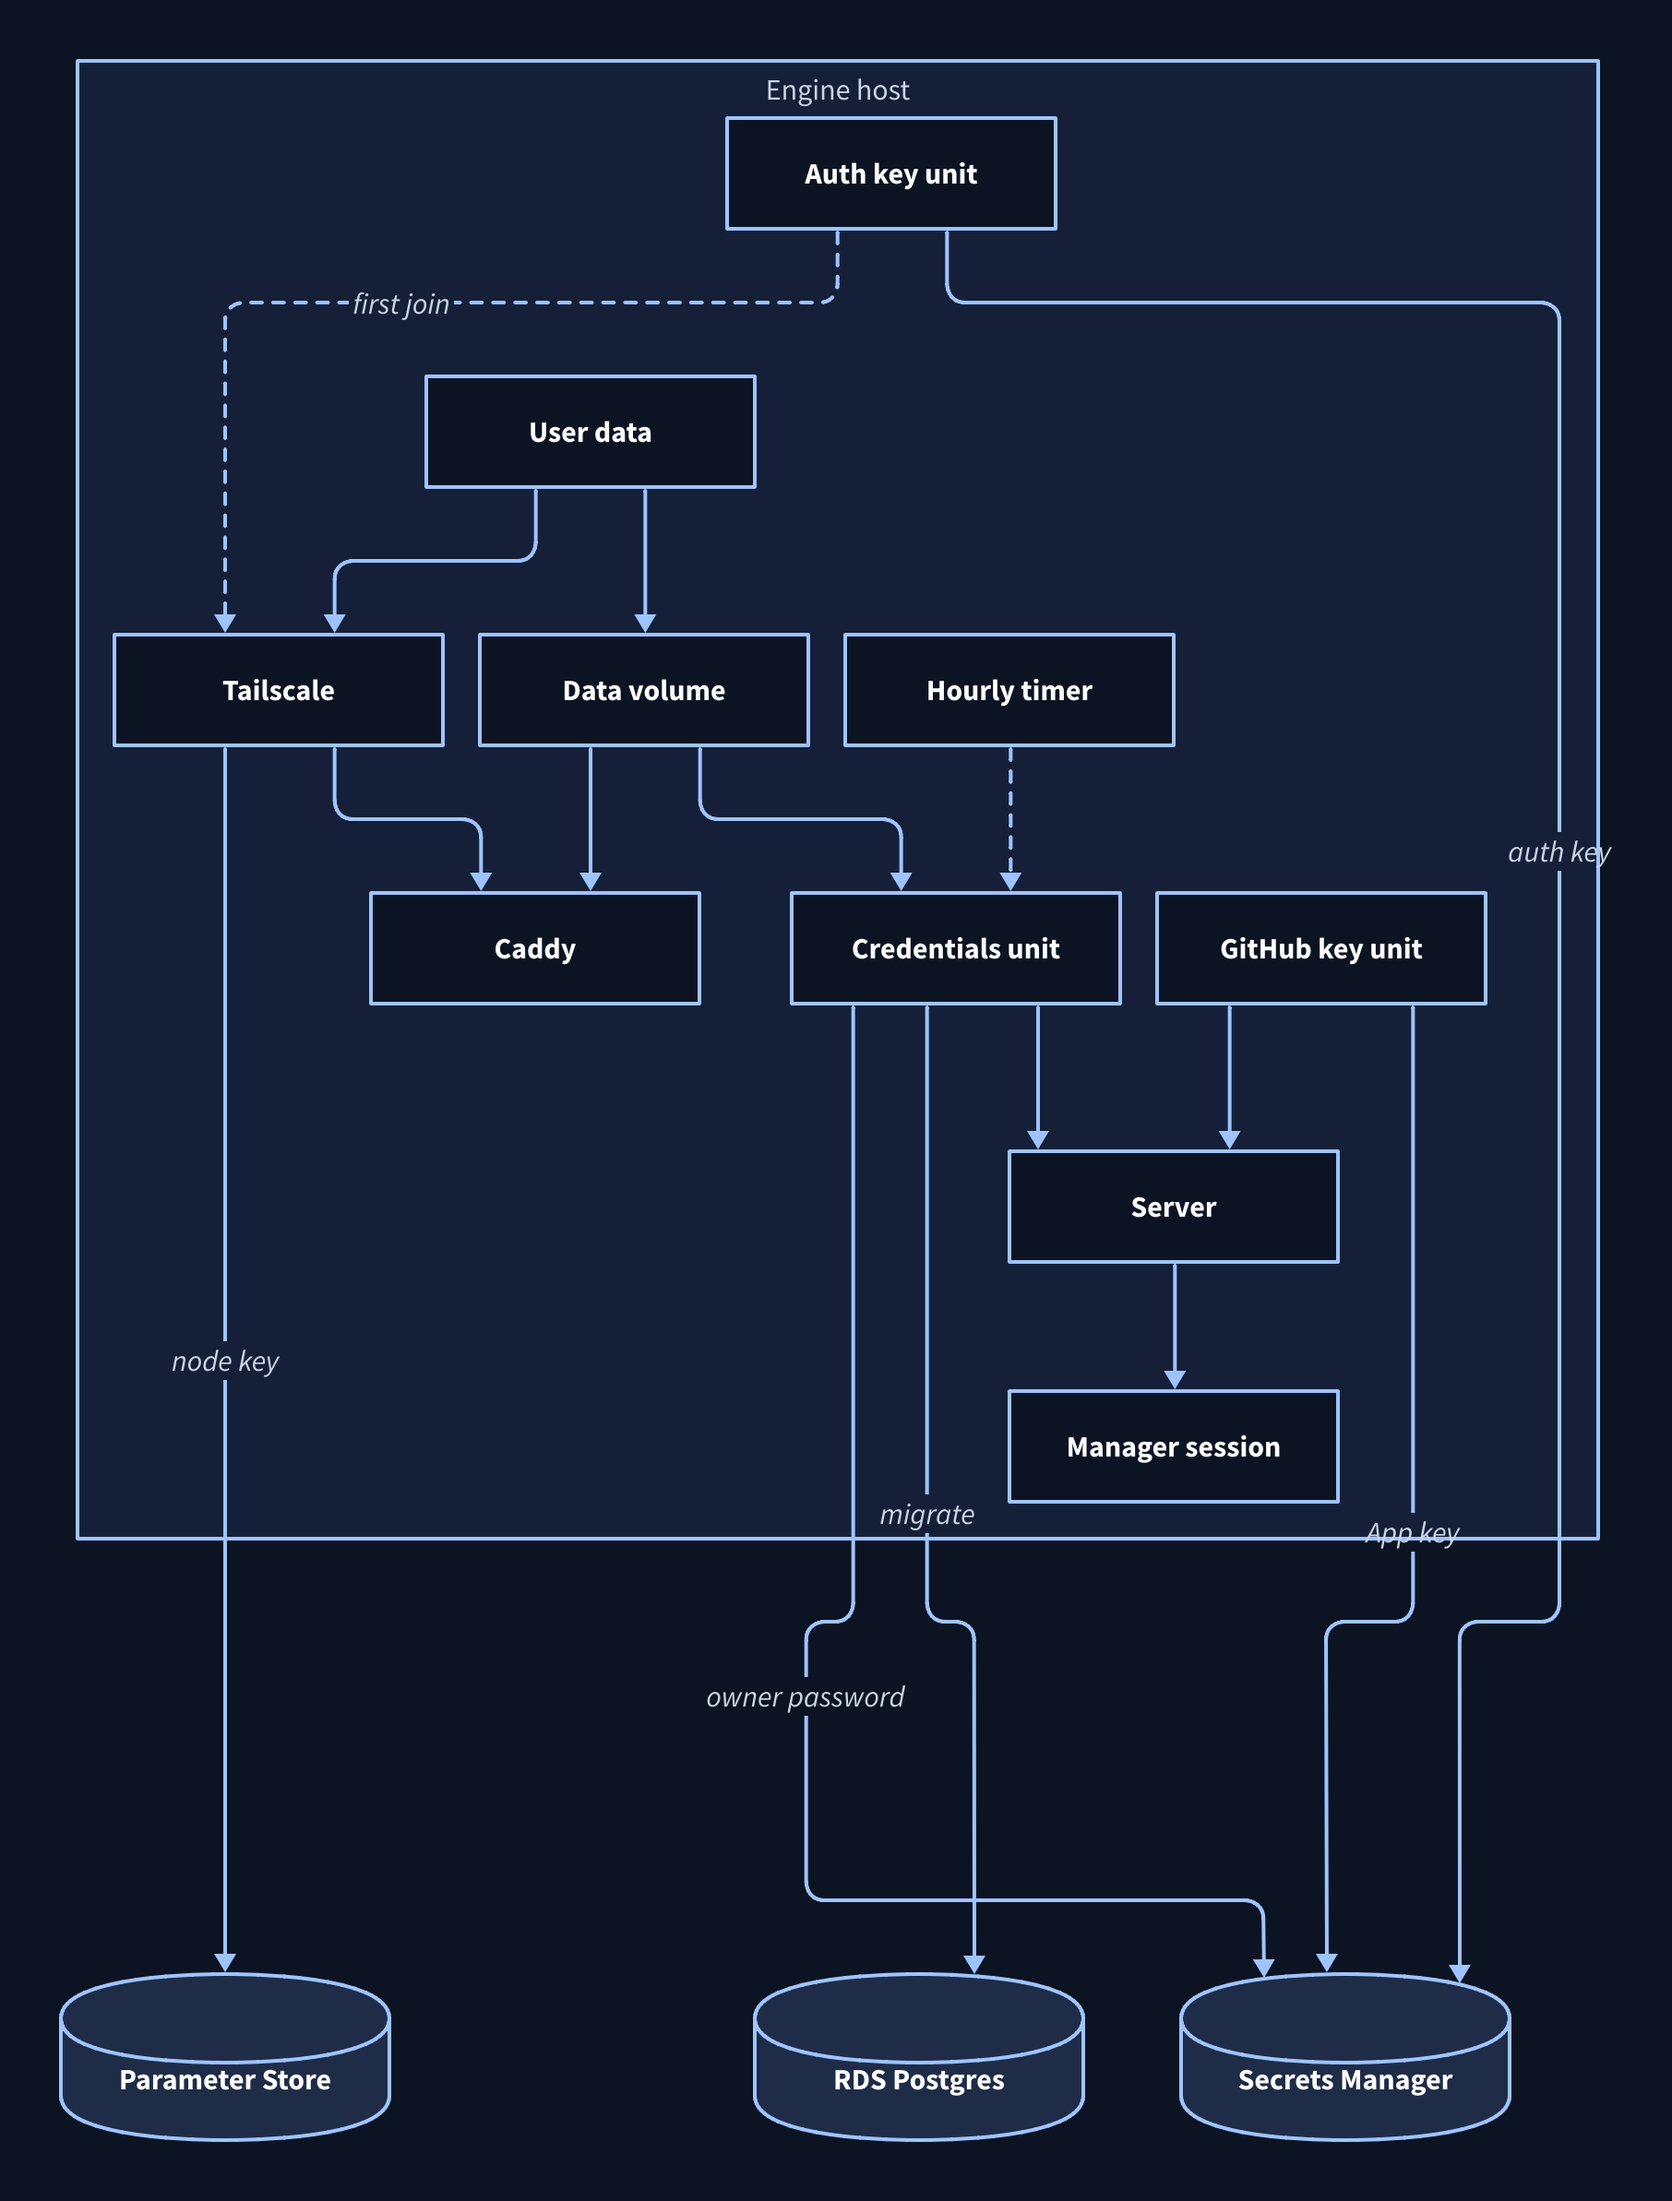
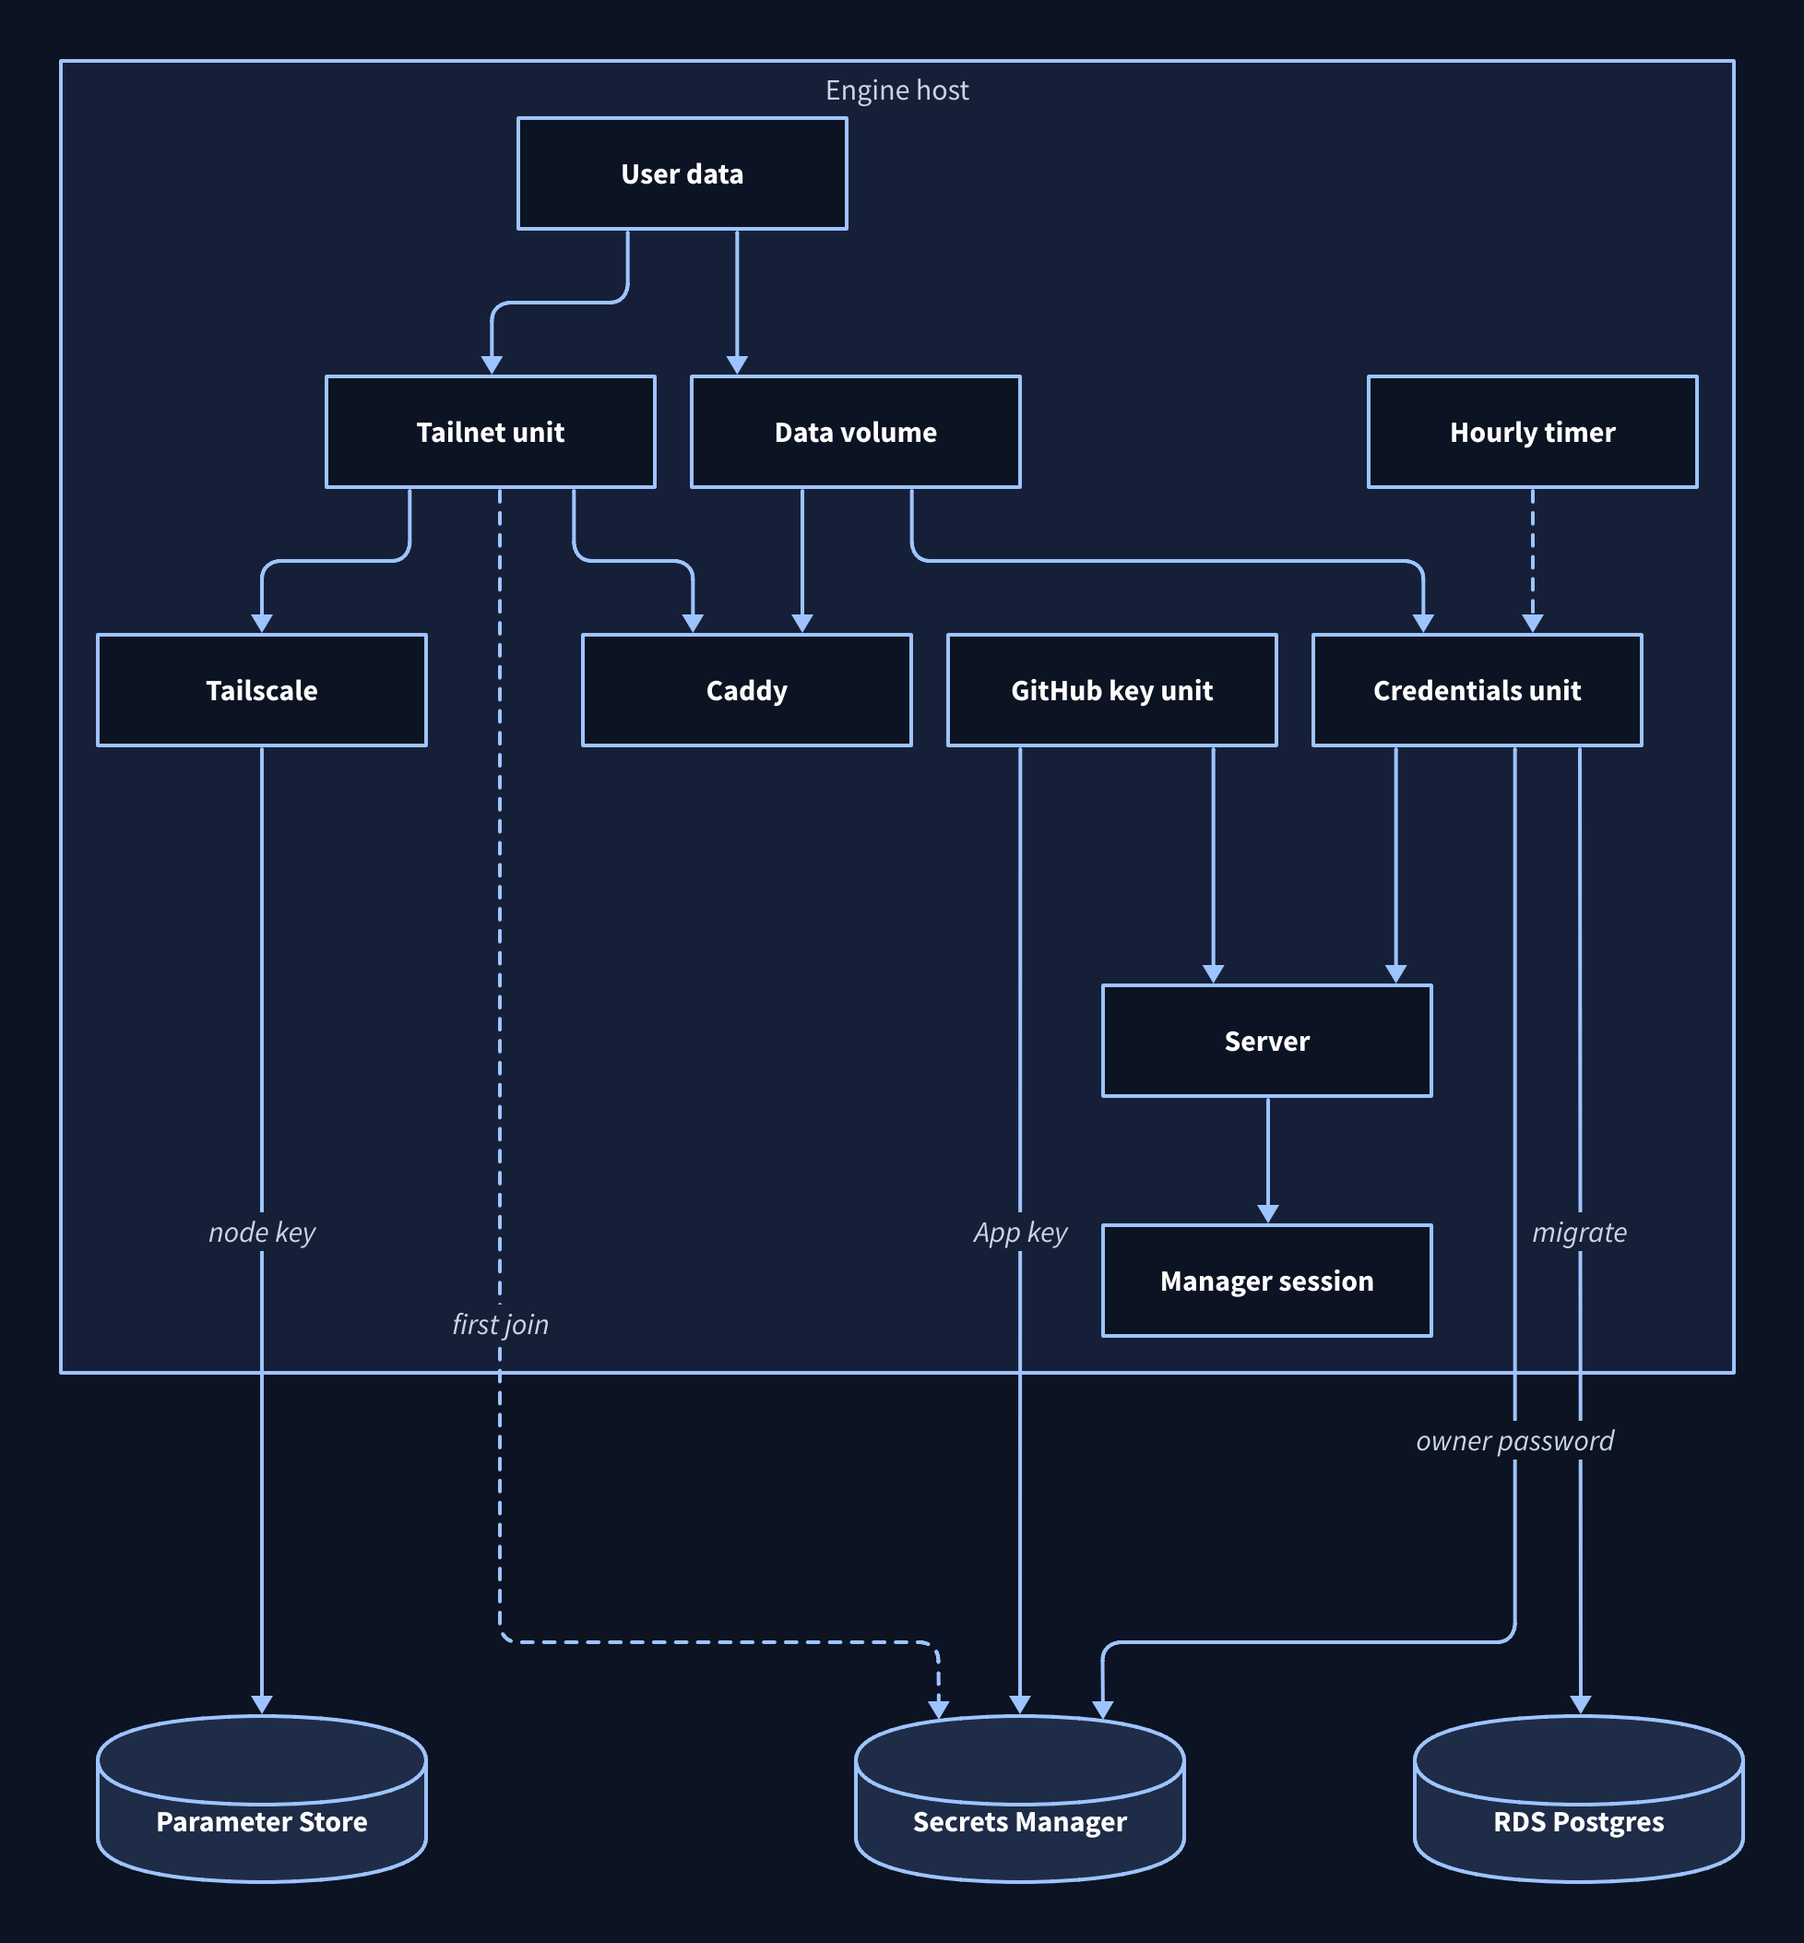
feat(engine): put the engine on a tailnet

diff --git a/infra/engine/README.md b/infra/engine/README.md
@@ -4,7 +4,7 @@ This stack is the remote engine komrad's own development runs on: one EC2 instan
 
 Copy `terraform.tfvars.example` and `backend.hcl.example`, drop the `.example`, and fill them in. Then run `mise run infra:engine:init` and `mise run infra:engine:apply`.
 
-The engine lives on a Tailscale tailnet and opens no ports to the internet. Set `tailscale_hostname` to the engine's name on the tailnet and `tailscale_tailnet` to the tailnet's DNS name. Before the first apply, store a single-use, pre-approved auth key tagged `tag:komrad-engine` in Secrets Manager as `komrad/tailscale-auth-key`. The `engine_url` output is the engine's address.
+The engine lives on a Tailscale tailnet and opens no TCP ports to the internet. Set `tailscale_hostname` to the engine's name on the tailnet and `tailscale_tailnet` to the tailnet's DNS name. Before the first apply, store a single-use, pre-approved auth key tagged `tag:komrad-engine` in Secrets Manager as `komrad/tailscale-auth-key`. The `engine_url` output is the engine's address.
 
 Set `sign_in_issuer`, `sign_in_client_id` and, on Google, `sign_in_client_secret` from the app you registered at your identity provider.
 
